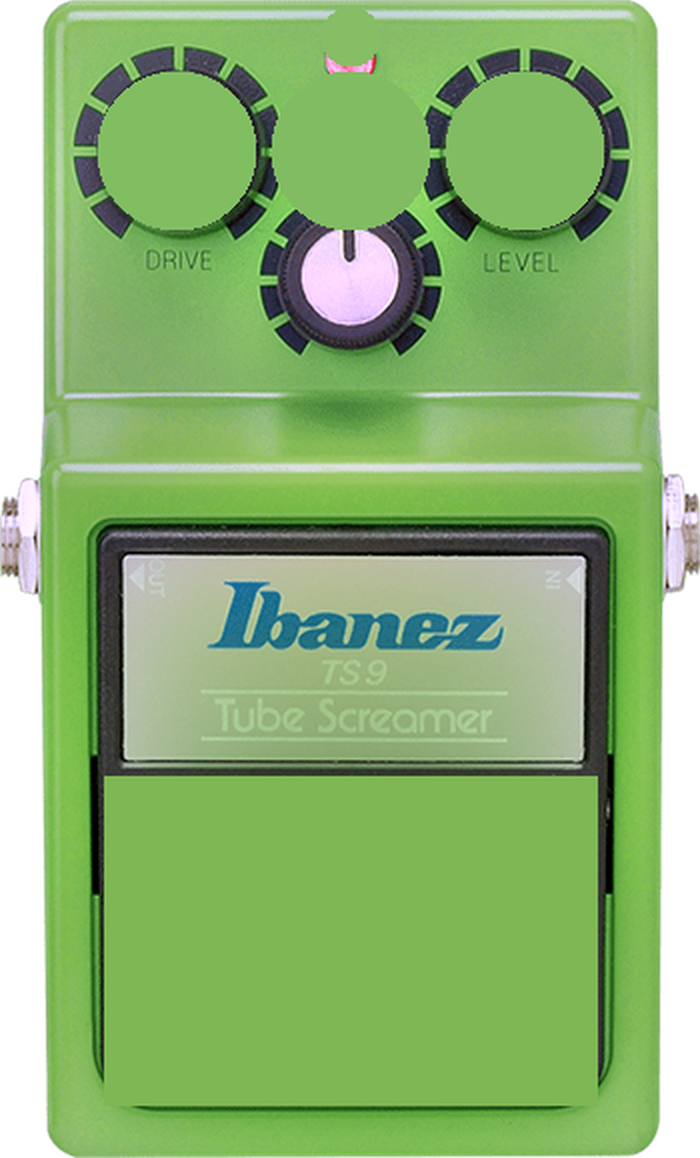
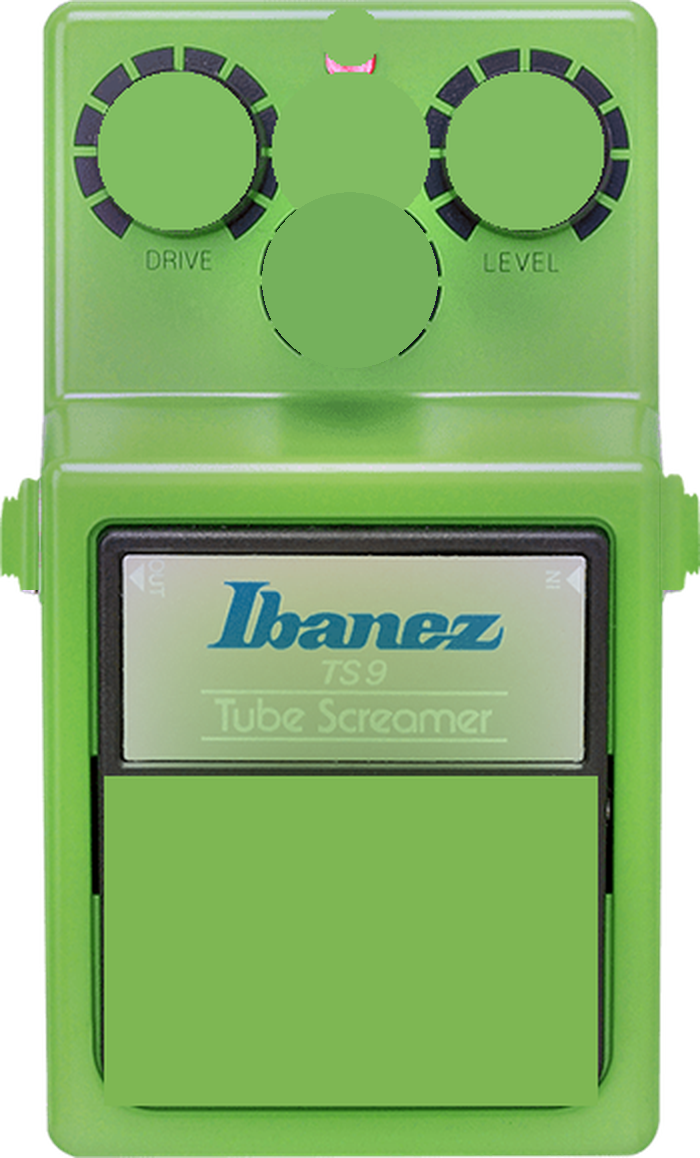
hero TS9 fix pass: corrected knob positions, rebuilt side jacks as hardware, scrubbed jack print from decal
- Knobs re-measured from face photo (cap centroid + Kasa skirt fit)
  through the decal UV map: TONE was 0.55 in too far back; DRIVE/
  LEVEL nudged a few px. TONE knob photo inpainted out of decal.
- Side jacks rebuilt: washer + hex nut (0.55 in across flats) +
  recessed dark socket bore, chrome PBR; z corrected to -0.18.
- Decal: jack-nut imagery scrubbed from left/right edges (mirrored
  clean bevel); jacks now exist only as geometry.

Changed region(s): [[0.36, 0.1865, 0.63, 0.3109], [0.93, 0.4041, 1.0, 0.5285], [0.0, 0.4041, 0.06, 0.5285]]

diff --git a/hero.html b/hero.html
@@ -57,6 +57,10 @@ import { RoomEnvironment } from 'three/addons/environments/RoomEnvironment.js';
    (front height estimated; back height is manufacturer spec).
    Knob/switch/LED layout measured from the PedalPlayground
    top-down photo (ibanez-ts9.png), image-top = pedal back.
+   Knob centers via bright-cap centroid + Kasa circle fit on the
+   knob skirt ring, converted through the decal UV mapping
+   (x=(u-.5)*W, z=(.5-v)*D, v=1 at image top = back).
+   NOTE: TONE sits ~0.55" lower (toward front) than DRIVE/LEVEL.
    ============================================================ */
 const W = 3.0, D = 4.9, H_BACK = 2.09, H_FRONT = 1.20;
 const SLOPE = Math.atan2(H_BACK - H_FRONT, D);          // ~10.3 deg
@@ -64,9 +68,9 @@ const topY = (z) => H_BACK - ((z + D / 2) / D) * (H_BACK - H_FRONT);
 
 // measured layout (inches, origin = board center, -z = back)
 const KNOBS = [
-  { x: -0.746, z: -1.815, rot:  0.30 },
-  { x:  0.000, z: -1.815, rot: -0.18 },
-  { x:  0.746, z: -1.815, rot:  0.14 },
+  { x: -0.741, z: -1.825, rot:  0.30 }, // DRIVE
+  { x: -0.002, z: -1.266, rot: -0.18 }, // TONE (lower than the other two)
+  { x:  0.765, z: -1.821, rot:  0.14 }, // LEVEL
 ];
 const LED_POS = { x: 0, z: -2.298 };
 const SWITCH = { x: 0, z: 1.522, w: 2.046, d: 1.382 };
@@ -184,6 +188,9 @@ const matLed = new THREE.MeshPhysicalMaterial({
   color: 0x2a0505, roughness: 0.25, metalness: 0.0,
   emissive: 0xff2015, emissiveIntensity: 2.4, clearcoat: 1.0, envMapIntensity: 0.8,
 });
+const matJackChrome = new THREE.MeshStandardMaterial({
+  color: 0xf4f4f6, roughness: 0.30, metalness: 1.0, envMapIntensity: 1.35,
+});
 const matDarkMetal = new THREE.MeshStandardMaterial({
   color: 0x2a2a2e, roughness: 0.45, metalness: 0.85, envMapIntensity: 0.8,
 });
@@ -295,26 +302,42 @@ for (const { x, z, rot } of KNOBS) {
   topGroup.add(g);
 }
 
-/* side jacks: hex nut + barrel + socket (input right, output left) */
-function makeJack(side) {
+/* side jacks: 1/4" panel jack hardware, built along +X.
+   washer -> hex nut (0.55" across flats) -> dark socket recess.
+   input right wall, output left wall. */
+const JACK_Z = -0.18; // mount point, from photo blob corrected for top-down parallax
+function makeJack() {
   const g = new THREE.Group();
-  const nut = shadowed(new THREE.Mesh(new THREE.CylinderGeometry(0.155, 0.155, 0.09, 6), matChrome));
-  nut.rotation.z = Math.PI / 2;
-  const barrel = new THREE.Mesh(new THREE.CylinderGeometry(0.10, 0.10, 0.12, 24), matDarkMetal);
-  barrel.rotation.z = Math.PI / 2;
-  const hole = new THREE.Mesh(
-    new THREE.CylinderGeometry(0.062, 0.062, 0.13, 20),
-    new THREE.MeshStandardMaterial({ color: 0x000000, roughness: 0.9 })
-  );
-  hole.rotation.z = Math.PI / 2;
-  nut.position.x = side * 0.045; barrel.position.x = side * 0.01;
-  g.add(nut, barrel, hole);
+  const washerGeo = new THREE.CylinderGeometry(0.31, 0.31, 0.035, 32);
+  washerGeo.rotateZ(Math.PI / 2);
+  const washer = shadowed(new THREE.Mesh(washerGeo, matJackChrome));
+  washer.position.x = 0.018;
+  const nutGeo = new THREE.CylinderGeometry(0.55 / Math.sqrt(3), 0.55 / Math.sqrt(3), 0.11, 6);
+  nutGeo.rotateZ(Math.PI / 2);
+  nutGeo.rotateX(Math.PI / 6); // flat faces up/down
+  const nut = shadowed(new THREE.Mesh(nutGeo, matJackChrome));
+  nut.position.x = 0.035 + 0.055;
+  // socket: dark bore seen through the nut + inner contact ring for depth
+  const boreGeo = new THREE.CylinderGeometry(0.125, 0.125, 0.17, 24);
+  boreGeo.rotateZ(Math.PI / 2);
+  const bore = new THREE.Mesh(boreGeo,
+    new THREE.MeshStandardMaterial({ color: 0x060606, roughness: 0.9, metalness: 0.2 }));
+  bore.position.x = 0.055;
+  const ringGeo = new THREE.CylinderGeometry(0.062, 0.062, 0.02, 16);
+  ringGeo.rotateZ(Math.PI / 2);
+  const contact = new THREE.Mesh(ringGeo, matDarkMetal);
+  contact.position.x = 0.015;
+  g.add(washer, nut, bore, contact);
   return g;
 }
-for (const side of [1, -1]) {
-  const j = makeJack(side);
-  j.position.set(side * (W / 2 - 0.01), 0.78, 0.10);
-  pedal.add(j);
+{
+  const jr = makeJack(); // input, right wall (+x)
+  jr.position.set(W / 2 - 0.06, 0.78, JACK_Z);
+  pedal.add(jr);
+  const jl = makeJack(); // output, left wall (-x)
+  jl.rotation.y = Math.PI;
+  jl.position.set(-(W / 2 - 0.06), 0.78, JACK_Z);
+  pedal.add(jl);
 }
 
 /* rear power jack */
